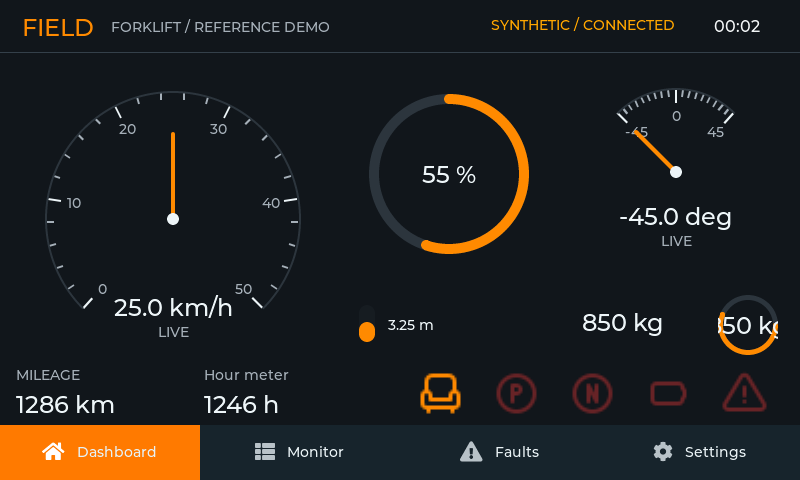
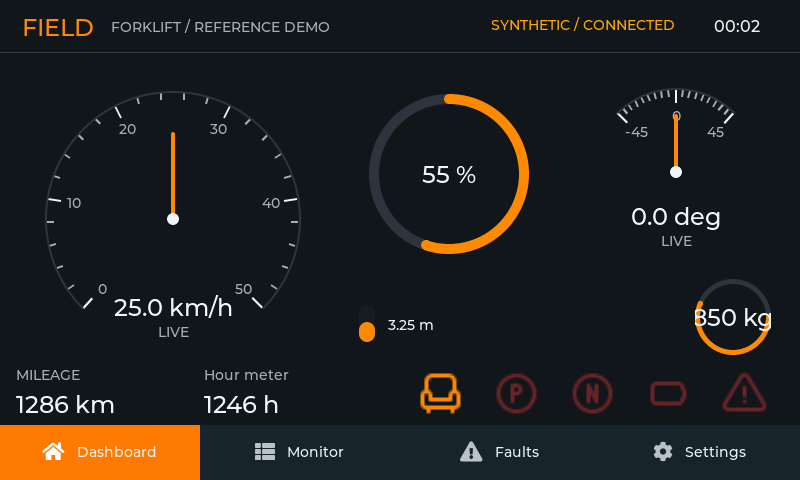
fix: refine reference UI and capture gallery

Changed region(s): [[0.7188, 0.5625, 0.9688, 0.75], [0.7812, 0.4062, 0.9375, 0.5], [0.7812, 0.25, 0.875, 0.3438]]

diff --git a/ui/settings.c b/ui/settings.c
@@ -207,7 +207,7 @@ static lv_obj_t *settings_button(demo_ui_t *u, lv_obj_t *parent, int x, int y, d
     lv_obj_set_style_text_color(button, lv_color_hex(0xedf5f8), 0);
     lv_obj_set_pos(button, x, y);
     lv_obj_set_size(button, 250, 48);
-    lv_obj_t *label = demo_text(u, button, 0, 0, text, &lv_font_montserrat_20, 0xedf5f8);
+    lv_obj_t *label = demo_text(u, button, 0, 0, text, &lv_font_montserrat_16, 0xedf5f8);
     lv_obj_center(label);
     if (callback)
         lv_obj_add_event_cb(button, callback, LV_EVENT_CLICKED, u);
@@ -238,7 +238,7 @@ void demo_settings_create(demo_ui_t *u)
         lv_obj_set_size(u->settings_menu[i], 200, 64);
         lv_obj_add_event_cb(u->settings_menu[i], settings_menu_select, LV_EVENT_CLICKED, u);
         lv_obj_t *label =
-            demo_text(u, u->settings_menu[i], 12, 0, menu_ids[i], &lv_font_montserrat_20, 0xedf5f8);
+            demo_text(u, u->settings_menu[i], 12, 0, menu_ids[i], &lv_font_montserrat_16, 0xedf5f8);
         lv_label_set_long_mode(label, LV_LABEL_LONG_SCROLL_CIRCULAR);
         lv_obj_set_width(label, 176);
         lv_obj_set_style_text_align(label, LV_TEXT_ALIGN_CENTER, 0);
@@ -339,7 +339,7 @@ void demo_settings_create(demo_ui_t *u)
     lv_obj_set_pos(side_system, 0, 0);
     lv_obj_set_size(side_system, 200, 64);
     lv_obj_t *system_label =
-        demo_text(u, side_system, 18, 0, DEMO_TXT_USER_SETTINGS, &lv_font_montserrat_20, 0xedf5f8);
+        demo_text(u, side_system, 18, 0, DEMO_TXT_USER_SETTINGS, &lv_font_montserrat_16, 0xedf5f8);
     lv_obj_set_width(system_label, 176);
     lv_label_set_long_mode(system_label, LV_LABEL_LONG_SCROLL_CIRCULAR);
     lv_obj_set_style_text_align(system_label, LV_TEXT_ALIGN_CENTER, 0);
@@ -349,7 +349,7 @@ void demo_settings_create(demo_ui_t *u)
     lv_obj_set_pos(side_advanced, 0, 64);
     lv_obj_set_size(side_advanced, 200, 64);
     lv_obj_t *side_label =
-        demo_text(u, side_advanced, 18, 0, DEMO_TXT_ADMIN_SETTINGS, &lv_font_montserrat_20, 0xffffff);
+        demo_text(u, side_advanced, 18, 0, DEMO_TXT_ADMIN_SETTINGS, &lv_font_montserrat_16, 0xffffff);
     lv_obj_set_width(side_label, 176);
     lv_label_set_long_mode(side_label, LV_LABEL_LONG_SCROLL_CIRCULAR);
     lv_obj_set_style_text_align(side_label, LV_TEXT_ALIGN_CENTER, 0);

diff --git a/ui/dashboard.c b/ui/dashboard.c
@@ -25,8 +25,9 @@ void demo_dashboard_create(demo_ui_t *u)
     u->height = meter_linear_meter_create(height, 15, 30, 185, 45, 0, 6, "m");
     lv_obj_t *load = demo_panel(page, 567, 222, 217, 80);
     flatten_dashboard_panel(load);
-    u->load = meter_value_label_create(load, 15, 34, "kg");
-    u->load_arc = meter_arc_bar_create(load, 151, 20, 60, 0, 360, 5, "kg");
+    /* 载荷由环形控件统一呈现，数值标签保留在屏外供 Product 投影更新。 */
+    u->load = meter_value_label_create(load, -200, -200, "kg");
+    u->load_arc = meter_arc_bar_create(load, 128, 4, 76, 0, 360, 5, "kg");
     lv_obj_t *mileage = demo_panel(page, 16, 314, 180, 52);
     flatten_dashboard_panel(mileage);
     demo_text(u, mileage, 0, 0, DEMO_TXT_MILEAGE, &lv_font_montserrat_16, 0xa5afb8);

diff --git a/ui/monitor.c b/ui/monitor.c
@@ -94,7 +94,7 @@ void demo_monitor_create(demo_ui_t *u)
         demo_theme_menu_button(modes[i], i == 0);
         lv_obj_set_pos(modes[i], 0, (int)i * 64);
         lv_obj_set_size(modes[i], 200, 64);
-        lv_obj_t *label = demo_text(u, modes[i], 8, 0, mode_ids[i], &lv_font_montserrat_20, 0xedf5f8);
+        lv_obj_t *label = demo_text(u, modes[i], 8, 0, mode_ids[i], &lv_font_montserrat_14, 0xedf5f8);
         lv_obj_set_width(label, 184);
         lv_obj_set_style_text_align(label, LV_TEXT_ALIGN_CENTER, 0);
         if (i == 0)
